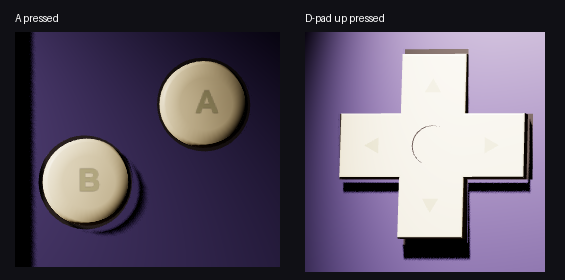
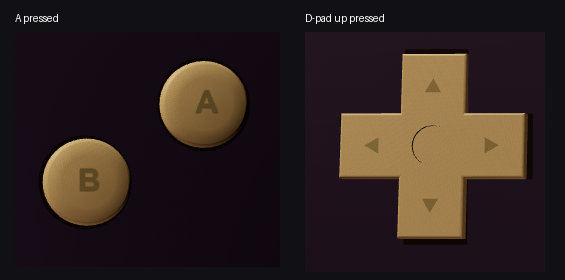
Document verified cozy lantern and thick tabletop release
Copilot-Session: 8e7d69ac-78f7-4310-8b8d-14bf8681a509

diff --git a/docs/ARCHITECTURE.md b/docs/ARCHITECTURE.md
@@ -143,6 +143,14 @@ animated table/play/inspection poses. Inspection supports dragging, touch
 rotation/pinch, wheel zoom and keyboard rotation/reset. Reduced motion skips
 the tween; unavailable/lost graphics contexts are reported explicitly.
 
+The resting camera is closer, without changing handheld geometry/root scale or
+the normal play-view framing. A 1000-by-26-unit solid wooden slab is 2.4 units
+thick: top Y=0, front Z=10, darker wood on its edges. Repeated grain avoids
+stretching the texture across its width. The plaster wall spans the viewport;
+the room floor sits at Y=-35, leaving visible open space below the front edge.
+The approximately 34.8-unit-tall lantern may be clipped by the resting frame,
+as explicitly requested; the camera no longer tries to fit its whole height.
+
 The LCD is a front-facing plane on that model, textured directly from the
 same-origin emulator canvas. It is not a CSS-transformed iframe, screenshot
 loop or simulated game image. The source iframe normally has a nonzero 720x480
@@ -178,6 +186,14 @@ Unfiltered and other native presets restore the rectangular display/surround
 rather than cropping their corners or assuming CRT Geom's fit applies to them.
 Revalidate the outline against actual native output on an engine/shader upgrade.
 
+The LCD is now 4.05 by 2.7 units, retaining native 3:2 mapping. The surrounding
+bezel gaps are approximately half the previous side/top/bottom gaps. Both
+curved and rectangular geometries carry explicit `userData.viewport` dimensions:
+`ShapeGeometry.parameters` does not expose width/height. Screen illumination
+uses that metadata rather than falling back to an incorrect 10-by-10 emitter.
+The cream power cap faces forward on the lower lip with a larger dark track,
+tactile ridges and a projected minimum 44-by-44-pixel input target.
+
 ### Physical cartridge insertion
 
 The original cartridge builder also creates one retained loaded-cartridge group
@@ -191,11 +207,16 @@ animation; selecting a cartridge while off still does not switch power on.
 Playing-view insertion briefly widens the camera and lowers the shell .95 units
 into the actual desk lamp's beam, retaining positive tabletop clearance.
 After seating, the camera and shell return over 850 ms. No ambient/fake fill
-light is added. The cartridge follows inspection/table transforms as a child;
+light is added specifically for loading. The cartridge follows inspection/table
+transforms as a child;
 errors retain it seated. A new ROM reuses its geometry instead of allocating
 another prop on every selection.
 
-Motion advances from elapsed time even when software rendering skips paints.
+Framing and insertion share a timeline advanced only after actual scene draws.
+Each step is bounded to 500 ms, smaller than the overlapping lowered/visible
+early-cartridge window. A multi-second graphics stall therefore cannot skip
+the whole slide. Fast rendering retains the 850/1350 ms choreography; slow
+rendering can lengthen the visual animation, never native loading.
 Completed motions clear their state so an idle console can stop drawing.
 Framing does not trigger a view-mode callback, pause the core or reset input.
 Native loading proceeds independently: there is no animation-based startup
@@ -203,13 +224,25 @@ delay, invented percentage or looping reinsertion during a long download.
 
 ### Dark room and screen-colored illumination
 
-`src/lighting.js` models the lamp and its light sources. The scene has no ambient,
-hemisphere or hidden fill light. One scene unit represents 0.017 meters, making
-the handheld roughly 144 mm wide. A warm spotlight uses inverse-square falloff,
-no arbitrary distance cutoff and a 2048-square shadow map. A finite upward
-6-by-6-unit rectangular patch approximates the first bounce from the wood.
-The shade/diffuser use authored emission; the lamp starts on each visit and
-its switch does not pause, power off or replace the cartridge.
+`src/lighting.js` models an original cylindrical paper shade, end diffusers,
+wooden stem/base and physical switch. Its body scale is seven, making the lamp
+roughly four handheld widths tall; the handheld itself is not scaled down.
+One scene unit represents 0.017 meters. A broad warm downward spotlight uses
+inverse-square falloff, no arbitrary distance cutoff and one 1024-square
+shadow map. This replaces the six expensive cubemap passes of the intermediate
+point-light implementation.
+
+A finite 14.7-by-22.4-unit rectangle approximates light transmitted through the
+paper. Three.js rectangular-light dimensions do not inherit parent scaling, so
+these dimensions explicitly match the enlarged shade. An upward 6-by-6-unit
+rectangle approximates the first wood bounce. Paper/bulb surfaces use authored
+emission. The lamp starts on each visit; switching it does not pause, power off
+or replace the cartridge.
+
+Optional room lights start off on every visit. Their explicit toolbar toggle
+controls a ceiling rectangle and reflected hemisphere independently of the
+lamp, LCD, pause and console power. With room lights off there is no ambient
+or hemisphere fill; with both lamp and room off the LCD is the sole source.
 
 The LCD has an attached rectangular area light matching its physical plane.
 Three.js emits along local negative Z, so the light is rotated toward the LCD's
@@ -232,11 +265,13 @@ flowchart TD
     G --> E
 ```
 
-Scene exposure gradually adapts from 0.015 with the lamp on to 0.45 with it off;
+Scene exposure gradually adapts from 0.018 with either lamp or room lights on
+to 0.45 with both off;
 the visible LCD remains unlit and is not tone-mapped. This is an authored
 real-time approximation, not path tracing or full global illumination.
-The spotlight casts shadows; rectangular LCD/bounce sources do **not** implement
-occlusion or cast shadows. Do not interpret orientation/falloff checks as proof
+The spotlight casts shadows; rectangular paper/ceiling/LCD/bounce and hemisphere
+sources do **not** implement occlusion or cast shadows.
+Do not interpret orientation/falloff checks as proof
 that light can never leak through geometry.
 
 Buttons use dielectric clearcoat materials. A/B move 0.045 units inward;
@@ -428,7 +463,7 @@ from a trusted copy of this application.
 | `index.html`, `styles.css`, `assets/cartridge.svg` | Scene host, projected controls and hidden tools drawer |
 | `assets/logo.png`, `assets/brand-mark.svg` | Supplied transparent header wordmark and original favicon |
 | `src/handheld.js`, `src/scene.js` | Original 3D geometry/textures, live LCD, picking and inspection |
-| `src/lighting.js` | Modeled lamp, shadowed spotlight, finite wood bounce and sampled LCD area light |
+| `src/lighting.js` | Paper lantern, one-map shadow source, finite paper/wood light, optional room lights and sampled LCD |
 | `src/app.js` | File selection, host lifecycle, UI and user save actions |
 | `src/player.js`, `player.html` | Pinned runtime adapter and child document |
 | `src/cartridge.js`, `src/save-store.js` | Identity, backups and checked storage |

diff --git a/README.md b/README.md
@@ -10,16 +10,26 @@ actual 3D indigo handheld, built for static hosting on GitHub Pages.
 
 ![The 3D indigo handheld on its wooden table](docs/images/3d-table.png)
 
-*A dark room, a switchable desk lamp and original 3D geometry on warm wood.
-Click the handheld to lift it into play view. No buttons cover the LCD.*
+*A full-width warm plaster wall and thick wooden tabletop, with open room
+below its front edge. The closer resting view keeps the handheld's physical
+size unchanged; the large paper lantern can extend beyond the frame.*
 
 ## Lights out
 
-The room starts dark with the desk lamp on. Click the modeled lamp or use the
-**Lamp** control to switch it independently of the game. The lamp casts shadows;
+The room starts with a warm paper lantern on and **Room** lights off. Click the
+modeled lamp or use **Lamp** to switch it independently of the game. **Room**
+adds optional ceiling/reflected illumination without changing console power.
+The original paper-and-wood lantern is roughly four handheld widths tall.
+Its downward light casts shadows;
 the LCD casts one-sided, screen-colored light as you lift or rotate the handheld.
 Turning the power off extinguishes its screen light. These are real-time lighting
 approximations, not a full global-illumination simulation.
+
+![Deployed lantern, enlarged handheld screen and optional room illumination](docs/images/cozy-room.png)
+
+*Left: the large clipped lantern and actual thick tabletop. Center: lantern-only
+play view, with the larger LCD and visible cream power slider. Right: lamp off,
+room lights on. The console remains off in all three views.*
 
 ![The original demo with only the LCD lighting the room](docs/images/lcd-light.png)
 
@@ -30,7 +40,9 @@ orientation and colors, rather than a fixed room-wide fill.*
 ## Infinite battery
 
 The first visit starts **powered off**, with a dark LCD. Pick up the handheld
-and use its physical bottom-edge switch. A short, original Game Boy-inspired
+and use its larger, visible lower-front power slider. Its projected touch target
+is at least 44 by 44 pixels without covering the LCD.
+A short, original Game Boy-inspired
 logo reveal and synthesized chime play on the actual LCD only when switching
 from off to on. The chime follows volume/mute; reduced motion uses a static reveal.
 The website header uses the supplied transparent wordmark. The original
@@ -97,7 +109,8 @@ the handheld to the table. Reduced-motion mode skips the pickup animation.
 *The LCD and bezel lettering are surfaces on the mesh, not a floating iframe
 or a flat photograph. The inner screen border follows CRT Geom's bowed sides
 and corners; unfiltered mode restores a complete rectangular screen.
-Controls sit on the physical shell.*
+The larger screen keeps its native 3:2 proportions while approximately halving
+the previous bezel gaps. Controls sit on the physical shell.*
 
 ![Pressed action button and D-pad on the deployed handheld](docs/images/pressed-controls.png)
 
@@ -132,8 +145,8 @@ Rotating the model naturally hides its front-facing game display.*
 
 Click the game for keyboard focus. The console's D-pad, A/B, L/R and Start/Select
 buttons work with mouse, touch and keyboard activation. Their meshes visibly
-depress: the D-pad rocks and the shoulder buttons hinge. The bottom-edge power
-switch turns the emulator off: the LCD goes dark and the runtime is removed.
+depress: the D-pad rocks and the shoulder buttons hinge. The lower-front power
+slider turns the emulator off: the LCD goes dark and the runtime is removed.
 Turn it back on to boot the loaded ROM from the beginning with its in-game
 save data, **not an instant checkpoint**. Pause/resume remains in Cartridges.
 Rotate a phone for a

diff --git a/docs/VERIFICATION.md b/docs/VERIFICATION.md
@@ -90,6 +90,13 @@ controls, malformed values and configuration-string injection.
   separated word components, plus no header/status overlap at 1440/390/320px.
 - Actual raycast depth at control gaps, rendered resting/pressed cap illumination
   for A/B/Start/Select and four D-pad directions, and lamp-off cap darkness.
+- Paper/wood lantern geometry and roughly four-handheld-width height, unchanged
+  shell scale, warm rendered wood, independent default-off room lights and no
+  console power/runtime changes when switching either light.
+- Desktop/phone viewport rays hitting actual room surfaces, closer projected
+  handheld, solid thick slab and a lower-right ray entering open room below it.
+- Half-sized bezel gaps, native 3:2 display/emitter dimensions and actual larger
+  front power control with minimum 44px targets at four viewport sizes.
 
 The original input-test ROM is generated from readable ARM instructions in
 `scripts/demo-rom.mjs`; it contains no copied Nintendo logo, BIOS or commercial
@@ -357,6 +364,40 @@ pressed-control and native input/LCD/power cases in 26.0s. The reviewed figure
 in the README crops actual deployed A/up captures. Final docs follow deployment.
 These checks do not establish photometric calibration or new human acceptance.
 See `TODO/16_PRESSED_CONTROL_LIGHTING.todo`.
+
+## Cozy paper lantern, full-width room and visible power, 2026-11-04
+
+The user rejected the initial lighting, toy-sized lamp and then distant camera.
+The final lamp is roughly four handheld widths tall; the handheld geometry,
+scale and normal play camera remain unchanged. The closer resting view can
+clip the lantern. A full-width warm wall and actual 2.4-unit wooden slab leave
+visible open space below the front edge, with the floor at Y=-35.
+The cream power slider faces forward, and the 4.05-by-2.7 LCD retains native
+mapping while approximately halving bezel gaps. Live captures were reviewed;
+technical verification does not imply the user likes the new appearance.
+
+Earlier normal release gates failed without deployment: `41787023852`,
+`41788355821`, `41789943580`, `41791995049`, `41793811180`.
+Actual traces exposed a 2.36-2.5s draw stall skipping insertion, transient
+startup-canvas reads and an idle-settling race. Corrections retain the original
+early-pose, ink, brightness and native/save assertions. Storage opens before
+expensive graphics construction, preserving the existing timeout/error path.
+Startup evidence samples real pixels inside original `fillText`; idle checks
+wait for pending redraw/shadow work. One shadow map replaces six cubemap passes.
+Insertion/framing share presented-frame time with 500ms maximum advances.
+The initial 250ms bound required too many slow paints on cold refresh; the
+final bound retains the early visible pose and existing seating deadline.
+An added assertion verifies the same early pose after actual refresh.
+
+Syntax/build, all ten units and focused Edge/explicit-software cases pass.
+Source `4c98bc2335ab602e9c853ca31e281a06cec0d1d7` passes build, both full
+browser shards (31 cases) and deployment in Pages `41795216070`.
+Independent live verification matches all 23 exact public assets. Six live
+room/power/LCD/pressed/native/CRT/startup cases pass in 1.4m; three additional
+desktop/phone insertion and picking/inspection cases pass in 45.0s.
+The live table/play/room contact sheet and refreshed public images were reviewed
+without storage warnings. Public docs/TODO/ledger follow that verified deployment.
+See `TODO/17_COZY_ROOM_AND_VISIBLE_POWER.todo`.
 
 ## Not verified here
 

diff --git a/THIRD_PARTY_NOTICES.md b/THIRD_PARTY_NOTICES.md
@@ -75,3 +75,9 @@ mesh or textures was established. The application instead uses independently
 authored procedural geometry informed by its visible silhouette and proportions.
 No viewer assets were extracted; the reference thumbnail, logo textures and
 boot image are not bundled or deployed.
+
+The user also supplied a cylindrical paper-shade/wooden-base lamp image on
+2026-11-04 as a visual reference. The application uses original procedural
+geometry and deterministic paper/wood textures; neither that image nor an
+external lamp model/texture is bundled. No reuse license or independent
+authorship of the reference image is claimed.
